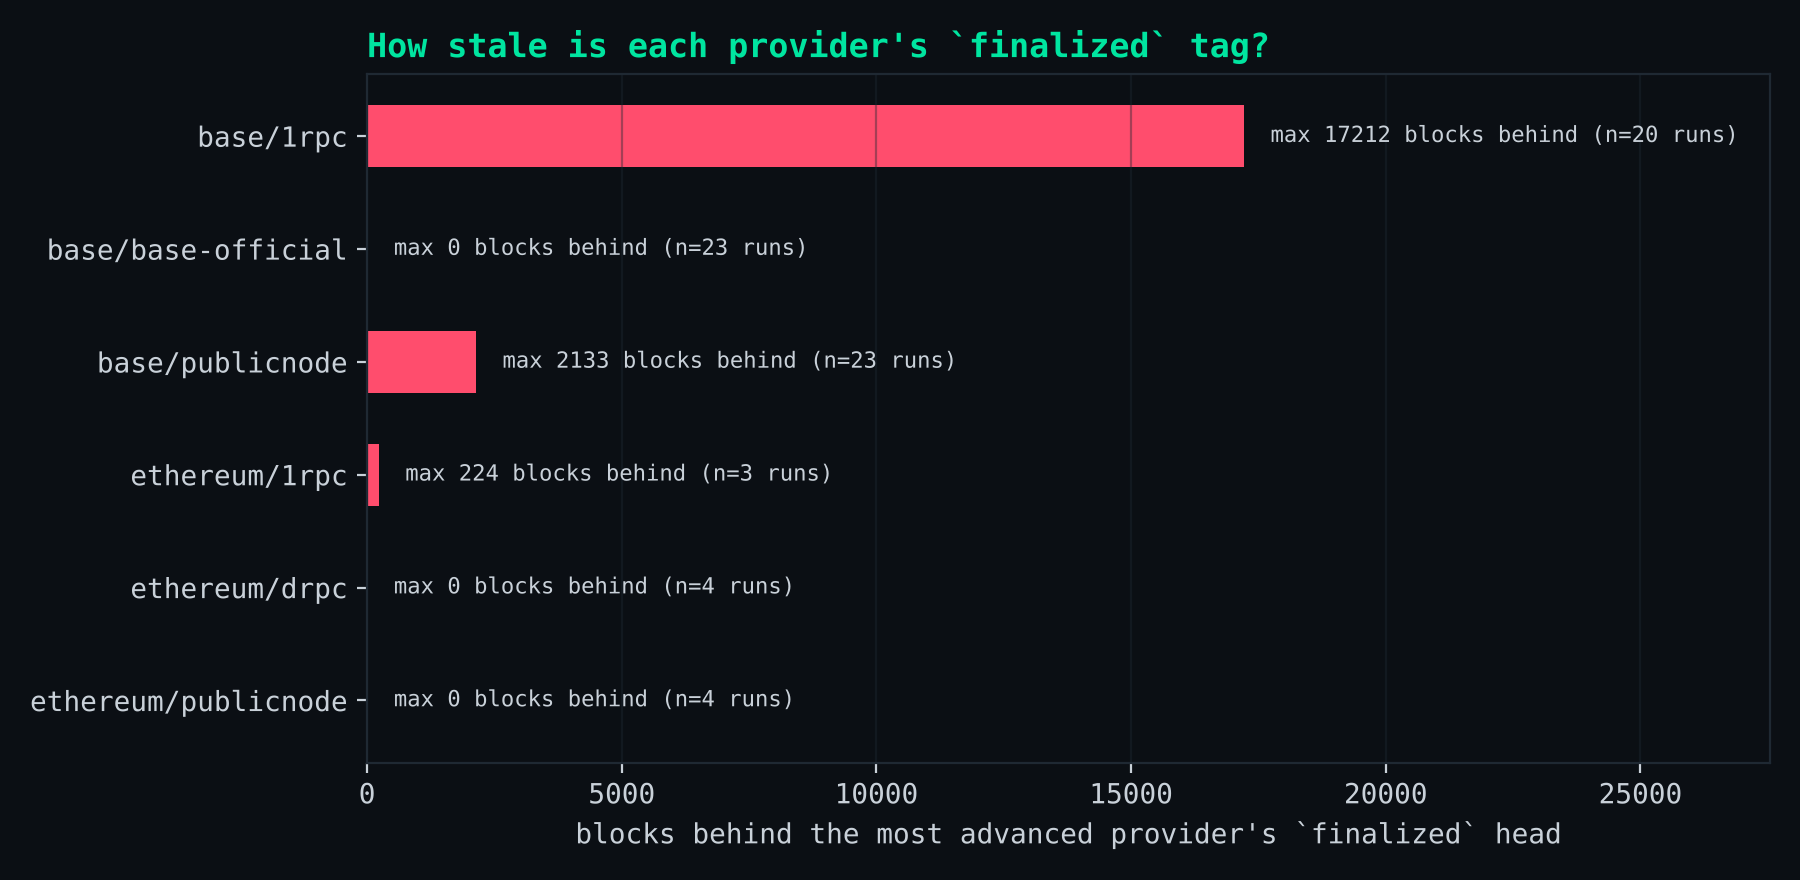
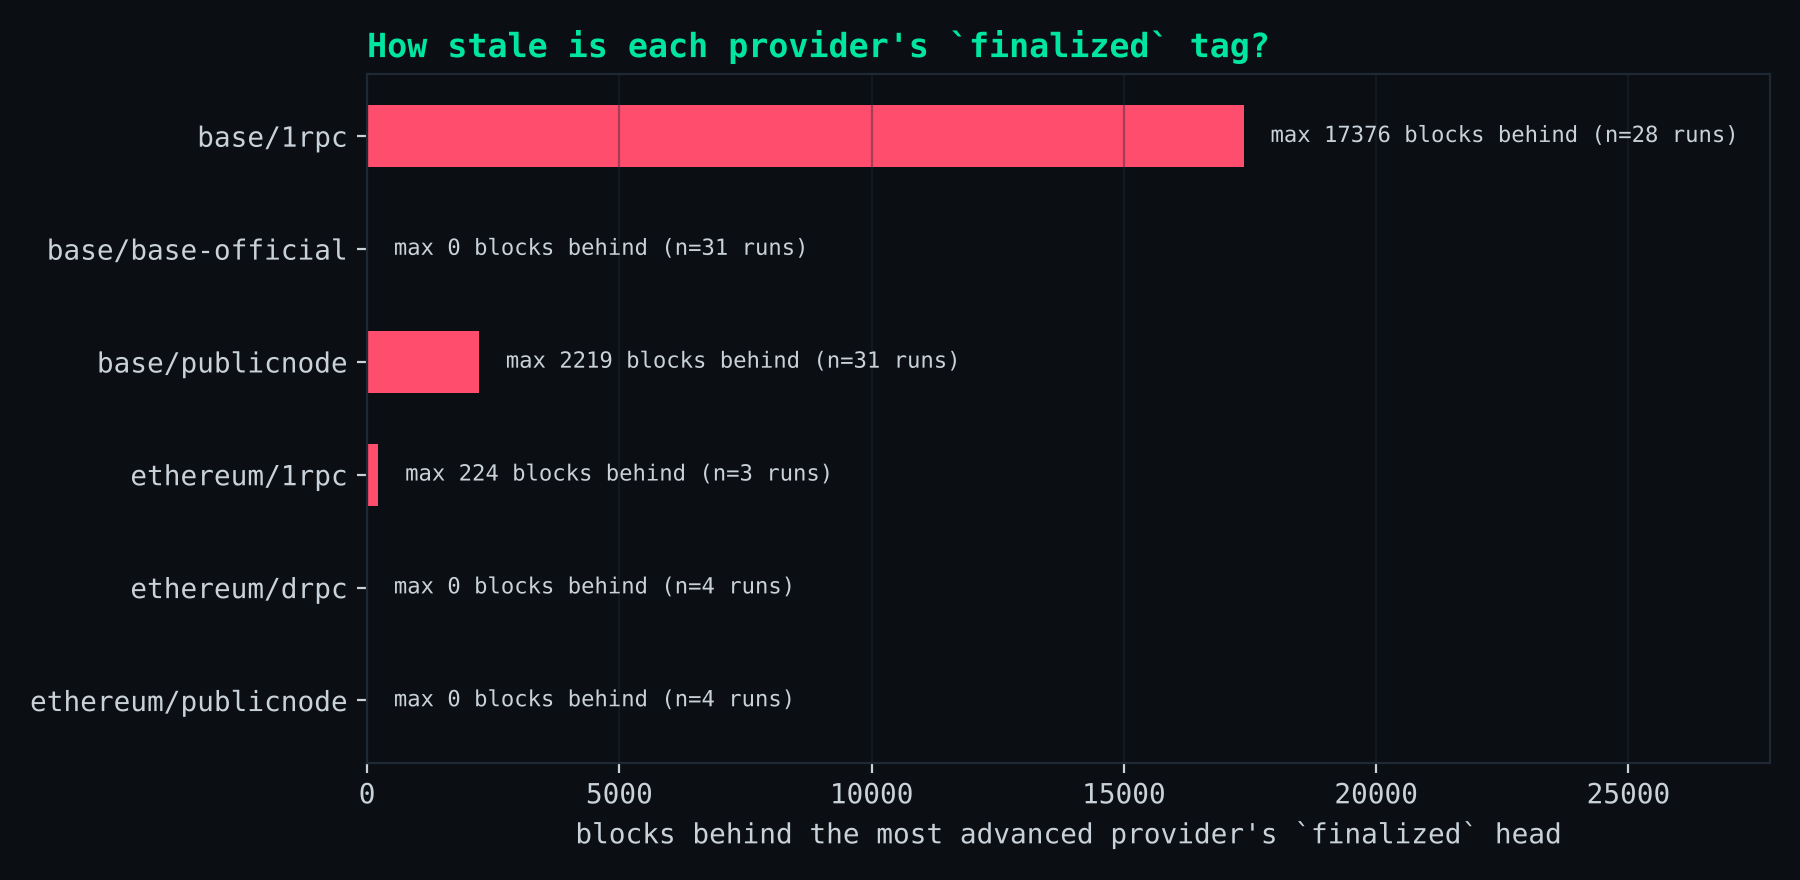
Base finality: an hour of head samples; README finding 6 and method note

diff --git a/scripts/fill_readme.py b/scripts/fill_readme.py
@@ -73,6 +73,23 @@ findings = f"""1. **Silent empty answers on older blocks.** In the deep-history 
     + ("; the 1rpc one was for a transaction only ~2.9 days old that both other providers returned"
        if any("1rpc" in r.get("null_receipt_from", "") for r in tx_exc) else "") + "."
     if tx_exc and all(r.get("null_receipt_from") for r in tx_exc) else "")
+hb = [r for r in csv.DictReader(open(ROOT / "results/heads_base.csv")) if r["run_id"].startswith("heads-")]
+byrun = {}
+for r in hb:
+    if r["finalized"]:
+        byrun.setdefault(r["run_id"], {})[r["provider"]] = int(r["finalized"])
+def _behind(p):
+    lags = [max(d.values()) - d[p] for d in byrun.values() if p in d]
+    return sum(1 for x in lags if x > 0), len(lags), max(lags, default=0)
+fl = S["finality_lag"]["base"]
+pn, o1 = _behind("publicnode"), _behind("1rpc")
+findings += f"""
+6. **"Finalized" means different things to different providers.** Across {fl['samples']} snapshots of Base heads
+   (mostly every two minutes for an hour), the `finalized` head sat a median {fl['median_blocks']:,} blocks
+   (~{fl['median_minutes'] / 60:.1f} h) behind `latest`. publicnode's `finalized` was behind base.org's in {pn[0]}/{pn[1]}
+   samples (by up to {pn[2]:,} blocks), and 1rpc's was stale in {o1[0]}/{o1[1]} (by up to {o1[2]:,} blocks,
+   ~{o1[2] * 2 / 3600:.1f} h). This tool takes the lowest `finalized` head across providers, so staleness makes it
+   more cautious, never less."""
 audit_txt = (f"{len(a40)}/{len(a40)} sampled blocks were proven against their headers, and {len(audit)} blocks "
              f"of its stored Parquet data ({dl:,} `Transfer` logs) matched the proven receipts exactly: "
              f"0 missing, 0 extra, 0 altered.")

diff --git a/README.md b/README.md
@@ -36,6 +36,12 @@ block hash locally, so the true set of logs is known without trusting any provid
 5. **Transactions agree when they are answered.** 62/70
    Ethereum and 30/30 Base transactions had identical
    transaction and receipt objects across answering providers. The Ethereum exceptions were all `null` receipts: 1 from 1rpc, 7 from publicnode; the 1rpc one was for a transaction only ~2.9 days old that both other providers returned.
+6. **"Finalized" means different things to different providers.** Across 31 snapshots of Base heads
+   (mostly every two minutes for an hour), the `finalized` head sat a median 5,033 blocks
+   (~2.8 h) behind `latest`. publicnode's `finalized` was behind base.org's in 12/30
+   samples (by up to 2,219 blocks), and 1rpc's was stale in 28/28 (by up to 17,376 blocks,
+   ~9.7 h). This tool takes the lowest `finalized` head across providers, so staleness makes it
+   more cautious, never less.
 
 <p align="center"><img src="docs/img/receipt_depth.png" width="90%" alt="publicnode returns null receipts for blocks older than about six days"></p>
 

diff --git a/docs/method.md b/docs/method.md
@@ -31,7 +31,10 @@ any provider. Ranges ending above that floor are "near head": they are measured,
 own column and never adjudicated, because lag between providers is expected there.
 
 On Base the same rule uses the OP Stack `finalized` head, which follows L1 finality of the batch
-(see reading notes §4).
+(see reading notes §4). `scripts/sample_heads.py base 30 120` sampled every provider's heads every two
+minutes for an hour. Base's `finalized` head trailed `latest` by a median of ~5,000 blocks (~2.8 hours
+at 2 s per block), far longer than the 15–30 minutes the OP Stack docs give for OP Mainnet. Providers
+also disagreed about where `finalized` was (see `results/heads_base.csv` and the README).
 
 ## Proof: who is right?
 
